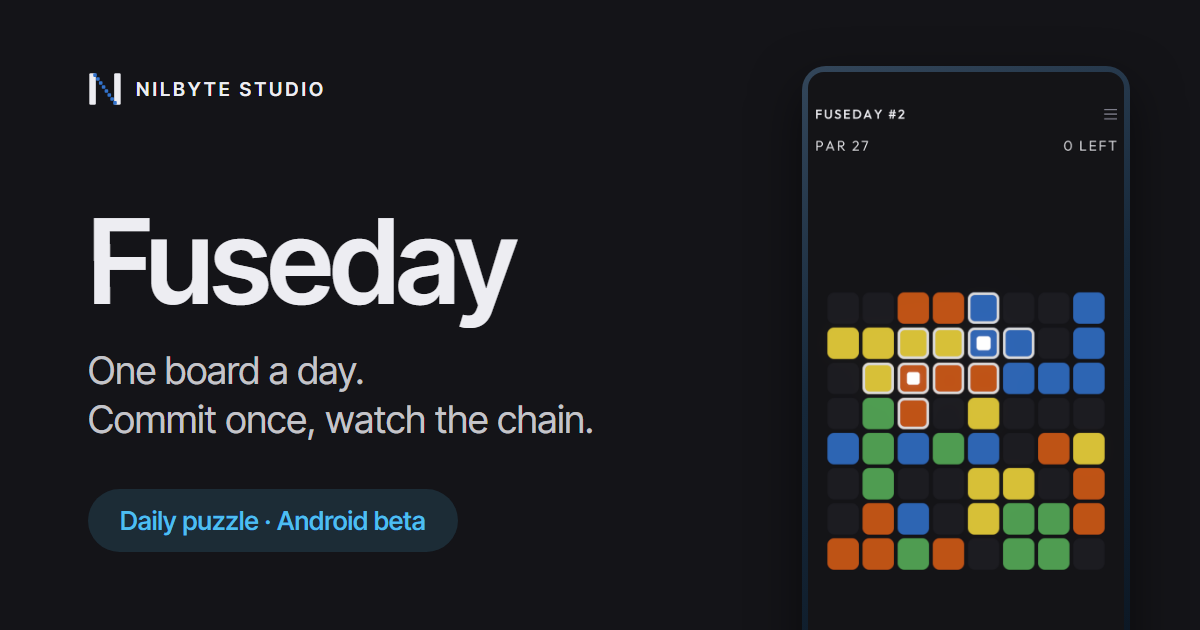
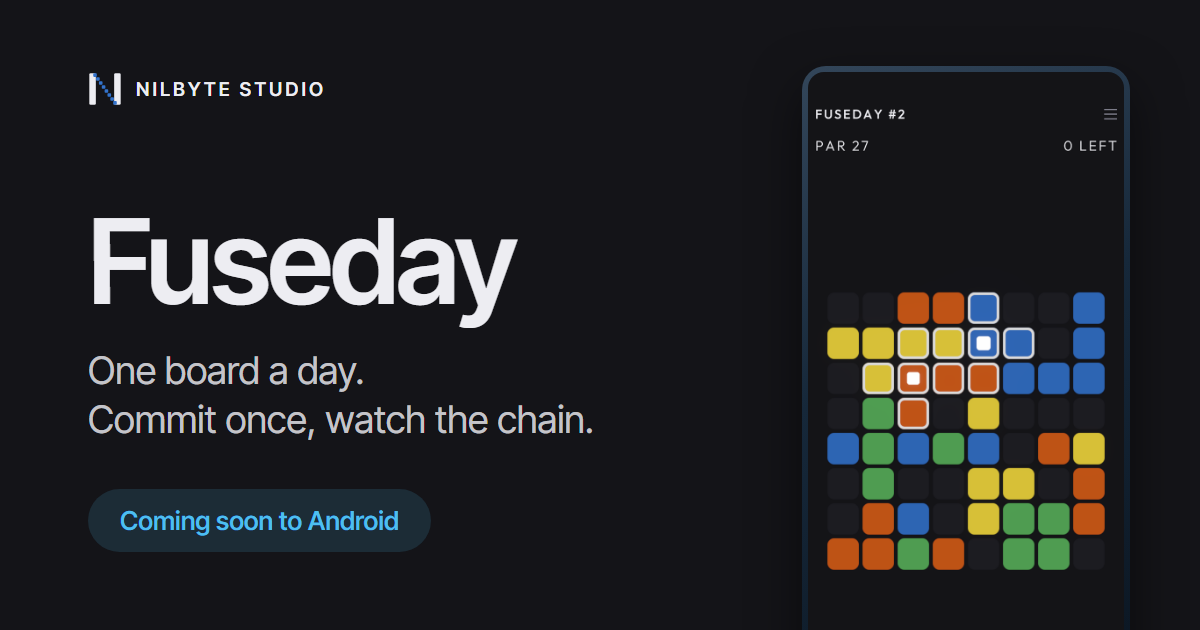
Say "Coming soon" on the Fuseday landing page
The hero status line, the share card and its alt text said the game was
in closed beta. They now say "Coming soon to Android", which reads better
to someone who reaches the page from a shared result.

Changed region(s): [[0.0925, 0.754, 0.4008, 0.8746]]

diff --git a/fuseday/index.html b/fuseday/index.html
@@ -16,7 +16,7 @@
 <meta property="og:image" content="https://nilbytestudio.com/assets/images/fuseday/og-cover.png">
 <meta property="og:image:width" content="1200">
 <meta property="og:image:height" content="630">
-<meta property="og:image:alt" content="Fuseday — one board a day, one chain reaction. A daily puzzle for Android, in closed beta.">
+<meta property="og:image:alt" content="Fuseday — one board a day, one chain reaction. A daily puzzle, coming soon to Android.">
 <meta name="twitter:card" content="summary_large_image">
 
 <meta name="theme-color" content="#141418" media="(prefers-color-scheme: light)">
@@ -119,7 +119,7 @@
 
         <p class="status">
           <span class="status__dot" aria-hidden="true"></span>
-          In closed beta on Android · free, no ads
+          Coming soon to Android · free, no ads
         </p>
       </div>
 

diff --git a/docs/fuseday/2026-10-04-support-privacy-pages.md b/docs/fuseday/2026-10-04-support-privacy-pages.md
@@ -17,7 +17,7 @@ text comes from `docs/store/listing.md` and `support.md` in the game repo. Diffe
 
 - **No store badges** while the game is in closed beta: a closed-test Play listing only
   opens for invited testers, so a badge would be a dead end for anyone the share text
-  reaches. The status line says "In closed beta on Android" instead, and the structured
+  reaches. The status line says "Coming soon to Android" instead, and the structured
   data has no `downloadUrl`. Add both when the game is public (the comment in the hero
   says where).
 - **No "What it costs" section**: there is nothing to buy in this build. Revisit if the
